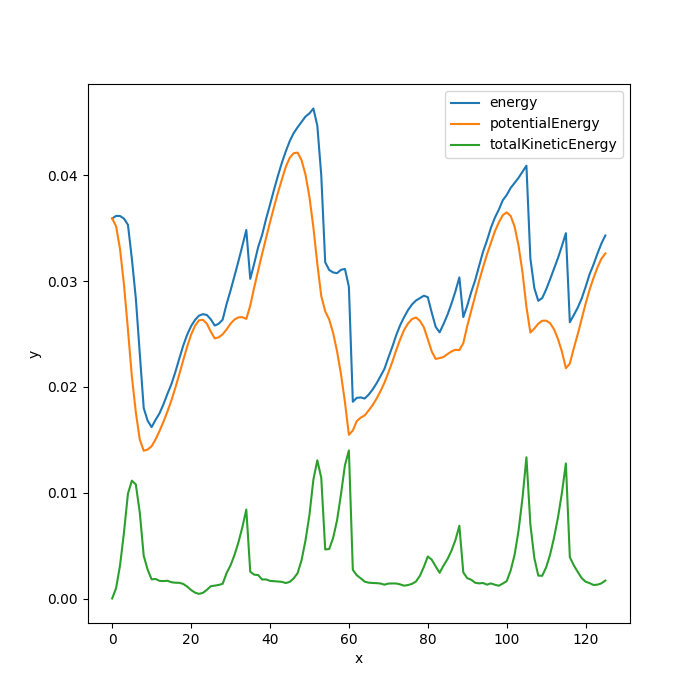
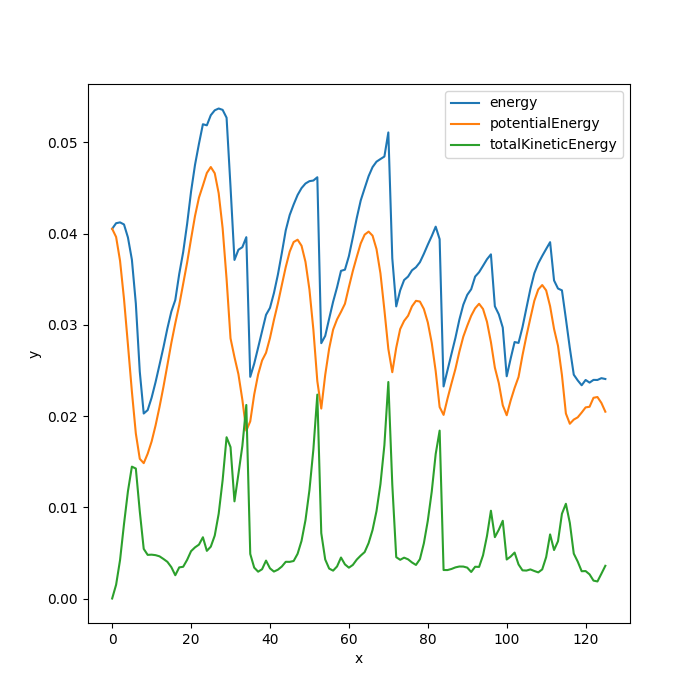
ok force

diff --git a/main.cpp b/main.cpp
@@ -5,7 +5,6 @@
 #include <random>
 #include <omp.h>
 #include "Grain.h"
-#include "Plan.h"
 #include "Cell.h"
 #include "GrainPrinter.h"
 #include "Container.h"
@@ -29,11 +28,11 @@ int main(int argc, char **argv) {
     // dt est lié à
     auto containerCollisionSettings = new CollisionSettings(.9, .6, 1000., 1000000.);
     auto grainCollisionSettings = new CollisionSettings(.9, .6, 1000., 1000000.);
-    CohesionSettings cohesionSettings(.005, .04);
+    CohesionSettings cohesionSettings(.0005, 300.);
     // VIDEO OPTIONS
     int fps = 25;
     double tStartCapture = 0.;
-    double totalTime = 20;
+    double totalTime = 5;
     int totalFrames = (int) ((totalTime - tStartCapture) * fps);
     double recTime;
     double dt = 10. * 0.000001;
@@ -44,10 +43,10 @@ int main(int argc, char **argv) {
     int paletteGrains = 10;
     int nPalettes = 3;
     int totalPalettesGrains = nPalettes * paletteGrains;
-    double paletteRelativeWidth = .3;
+    double paletteRelativeWidth = .1;
     double paletteGrainRadius = 0.004;
 
-    int numberOfGrains = 1400;
+    int numberOfGrains = 140;
     int numberOfGrainsWithPalettes = numberOfGrains + (totalPalettesGrains);
     double radius = 0.005;
     double mass;

diff --git a/CohesionSettings.cpp b/CohesionSettings.cpp
@@ -12,16 +12,16 @@ void CohesionSettings::setDistanceThreshold(double distanceThreshold) {
     CohesionSettings::distanceThreshold = distanceThreshold;
 }
 
-double CohesionSettings::getForceValue() const {
-    return forceValue;
+double CohesionSettings::getCohesionConstant() const {
+    return cohesionConstant;
 }
 
-void CohesionSettings::setForceValue(double forceValue) {
-    CohesionSettings::forceValue = forceValue;
+void CohesionSettings::setCohesionConstant(double forceValue) {
+    CohesionSettings::cohesionConstant = forceValue;
 }
 
 CohesionSettings::CohesionSettings(double distanceThreshold, double forceValue) : distanceThreshold(distanceThreshold),
-                                                                                  forceValue(forceValue) {
+                                                                                  cohesionConstant(forceValue) {
     CohesionSettings::setDistanceThreshold(distanceThreshold);
-    CohesionSettings::setForceValue(forceValue);
+    CohesionSettings::setCohesionConstant(forceValue);
 }

diff --git a/cohesion.cpp b/cohesion.cpp
@@ -2,14 +2,15 @@
 // Created by lucas on 01/06/2020.
 //
 
+#include <cmath>
 #include "cohesion.h"
 #include "CohesionSettings.h"
 
-void  addCohesionForce(Grain *pGrain1, Grain *pGrain2, CohesionSettings cohesionSettings){
+void addCohesionForce(Grain *pGrain1, Grain *pGrain2, CohesionSettings cohesionSettings) {
     double delta = getDistanceBetweenGrains(*pGrain1, *pGrain2);
     if (delta < cohesionSettings.getDistanceThreshold()) {
         Vector2 normalVector = (pGrain1->getPosition() - pGrain2->getPosition()).normalize();
-        double forceValue = cohesionSettings.getForceValue() - cohesionSettings.getForceValue()*delta/cohesionSettings.getDistanceThreshold();
+        double forceValue = fabs(cohesionSettings.getCohesionConstant() * (delta - cohesionSettings.getDistanceThreshold()));
         pGrain1->addForce(-1.*forceValue * normalVector);
         pGrain2->addForce(forceValue * normalVector);
     }

diff --git a/CohesionSettings.h b/CohesionSettings.h
@@ -9,7 +9,7 @@
 class CohesionSettings {
 private:
     double distanceThreshold;
-    double forceValue;
+    double cohesionConstant;
 public:
     CohesionSettings(double distanceThreshold, double forceValue);
 
@@ -18,9 +18,9 @@ public:
 
     void setDistanceThreshold(double distanceThreshold);
 
-    double getForceValue() const;
+    double getCohesionConstant() const;
 
-    void setForceValue(double forceValue);
+    void setCohesionConstant(double forceValue);
 };
 
 
